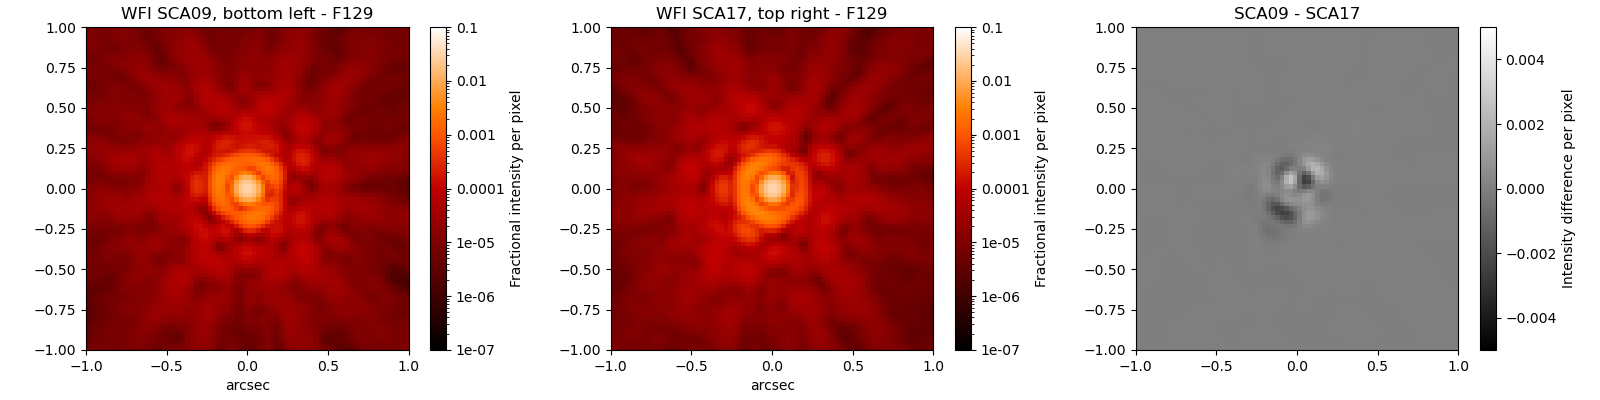
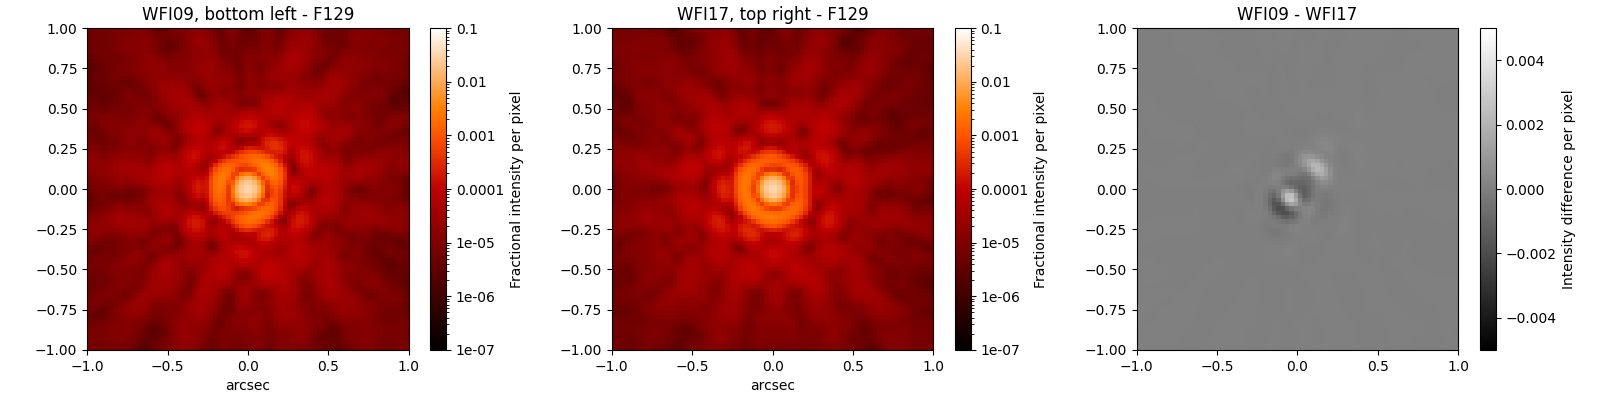
Remake most Roman doc figures

diff --git a/docs/roman_figures/how_tos.py b/docs/roman_figures/how_tos.py
@@ -1,7 +1,9 @@
 import matplotlib.pyplot as plt
+import os
+import stpsf
 from stpsf import display_psf, roman
 
-#### Create stpsf-roman_page_header.png
+#### Create stpsf_roman_page_header.png
 long = 4
 wide = 3
 
@@ -37,7 +39,9 @@ for i, ifilter in enumerate(sorted(all_filters)):
 
 axes[-1].remove()
 
-# fig.savefig('stpsf-roman_page_header.png', dpi=100, facecolor='w')
+# fig.savefig(os.path.join(os.path.dirname(os.path.abspath(__file__)),
+#                          'stpsf_roman_page_header.png'),
+#             dpi=100, facecolor='w')
 
 #### Create compare_wfi09_wfi17.png
 wfi2 = roman.WFI()
@@ -58,13 +62,17 @@ stpsf.display_psf(psf_wfi17, ax=ax_wfi17, imagecrop=2.0,
 stpsf.display_psf_difference(psf_wfi09, psf_wfi17, ax=ax_diff,
                                vmax=5e-3, title='WFI09 - WFI17', imagecrop=2.0)
 fig2.tight_layout(w_pad=.5)
-# fig2.savefig('compare_wfi09_wfi17.png', dpi=100, facecolor='w')
+# fig2.savefig(os.path.join(os.path.dirname(os.path.abspath(__file__)),
+#                          'compare_wfi09_wfi17.png'),
+#              dpi=100, facecolor='w')
 
 
 #### Create fig_coronagraph_spc_f770.png
 cor = roman.RomanCoronagraph()
 cor.mode = "CHARSPC_F770"
 
-fig, ax = plt.subplots(figsize=(8,7))
+fig3, ax3 = plt.subplots(figsize=(8,7))
 mono_char_spc_psf = cor.calc_psf(nlambda=1, fov_arcsec=1.6, display=True)
-# fig.savefig('fig_coronagraph_spc_f770.png', dpi=100, facecolor='w')
+# fig3.savefig(os.path.join(os.path.dirname(os.path.abspath(__file__)),
+#                          'fig_coronagraph_spc_f770.png'),
+#              dpi=100, facecolor='w')